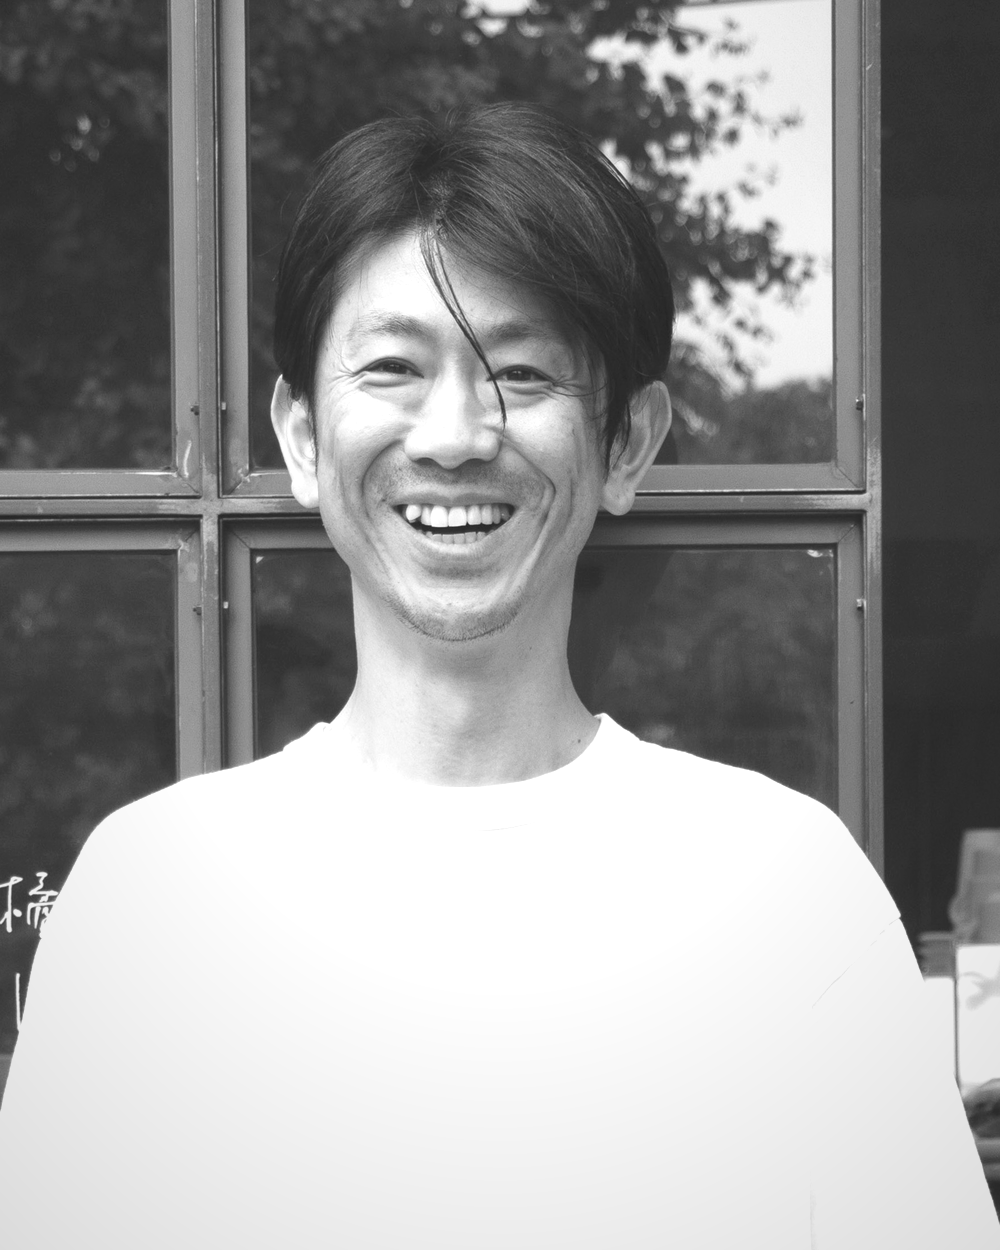
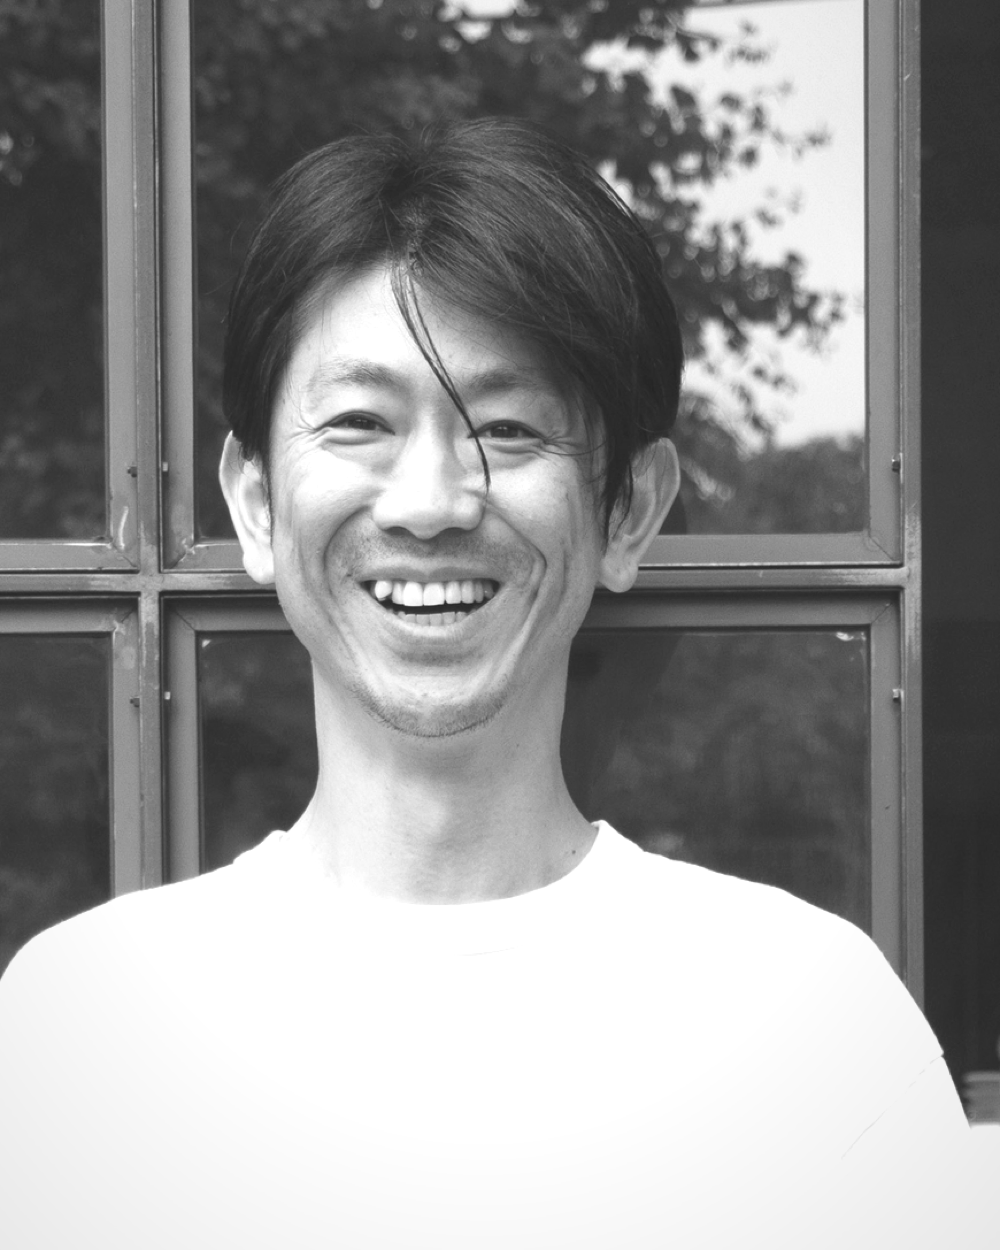
COMPANY/CONTACT 調整：顔サイズ統一・写真4:5・中島文章の収まり・CREATE文言・retro Web・フォーム微調整
- COMPANY：中島の写真を顔中心にズームして渡部と顔サイズを統一／写真は自然な4:5（間延びなし）
- COMPANY：モバイルのみ文章を縮小し中島の文章を写真の枠内に収める（PCは不変）
- COMPANY：retro に retro-duction.com を併記
- CONTACT：2つの窓を細め・同サイズに／CREATE「一緒につくれる人を探しています。」／会社名・電話番号は（任意）表記
- BUSINESS：Tools の「構想」表記を削除

diff --git a/style.css b/style.css
@@ -260,7 +260,7 @@ body::before{
   text-align:left;
   background:transparent;
   border:1px solid rgba(35,49,72,.22);  /* 薄い囲み（地に、ここだけ枠＝種類が変わる合図） */
-  padding:var(--s3) var(--s4);          /* 上下を詰めて出口を締める（左右はそのまま） */
+  padding:1.15rem 1.8rem;               /* 細め（WORK基準のスリムなボックス） */
   font:inherit;
   color:inherit;
   cursor:pointer;
@@ -269,7 +269,7 @@ body::before{
 .window:focus-visible{ outline:2px solid var(--ink-soft); outline-offset:2px; }
 .contact__intro{ font-family:var(--font-en); font-size:var(--fs-lead); letter-spacing:.1em; color:var(--ink); margin:0 0 var(--s4); }   /* 前置き IF THIS RESONATES,：英字・ネイビー・囲みの外/上・bold無し */
 .window__en{ display:block; font-family:var(--font-en); font-size:clamp(1rem, .96rem + .35vw, 1.14rem); letter-spacing:.12em; line-height:1.35; color:var(--ink); margin:0; }   /* CONTACTの英字メイン：出口は静かに＝Values見出し/IF THIS RESONATESより小さく */
-.window__ja{ display:block; font-size:var(--fs-body); color:var(--ink-faint); line-height:1.6; margin:.55em 0 0; }   /* 日本語サブ：薄グレー#9AA0AC・一段小さく（英字の下） */
+.window__ja{ display:block; font-size:clamp(.8rem, .68rem + .55vw, 1.05rem); color:var(--ink-faint); line-height:1.6; margin:.5em 0 0; }   /* 日本語サブ：薄グレー。狭い画面でも1行に収めてボックスを細く（PCは従来サイズ） */
 
 /* --- ⑦ 二つの窓のフォーム（アコーディオン／装飾は最小・角丸/影なし・bold無し） -- */
 .contact-panel{ padding:var(--s2) var(--s4) var(--s3); }     /* 押した窓の直下に開く・窓の内側に揃える */
@@ -320,15 +320,15 @@ body::before{
 /* --- ⑨ 会社情報（二社のプロフィール：見出しなし・写真左/テキスト右・縦積み。並ぶ構図でアライアンスを示す） -- */
 .company{ padding-block:var(--s7); }
 .company__lead{ margin:calc(-1 * var(--s3)) 0 var(--s4); font-size:clamp(.82rem, .79rem + .14vw, .9rem); color:var(--ink-faint); line-height:1.7; }   /* COMPANYラベル直下・関係の一行：薄グレー・小さめ・控えめ */
-.profile{ display:flex; align-items:center; gap:clamp(1.1rem, 4vw, 2.2rem); }
+.profile{ display:flex; align-items:flex-start; gap:clamp(1.1rem, 4vw, 2.2rem); }   /* 写真は自然な4:5（間延びさせない）。上揃えで文章が写真の上端から始まる */
 .profile + .profile{ margin-top:var(--s5); }      /* 二社の間＝主従の唯一の差。各ブロック内の余白よりはっきり広く（線・ラベルは使わない・写真は同サイズ） */
-.profile__photo{ flex:none; width:clamp(7rem, 27vw, 11.5rem); }    /* 二社とも同一幅・一段小さく（写真は静かに添える＝テキスト主）。4:5で高さも揃う */
-.profile__photo img{ display:block; width:100%; height:auto; }       /* 4:5・角丸/枠線/影なし（地に直に乗る） */
+.profile__photo{ flex:none; width:clamp(8.5rem, 36vw, 11.5rem); }    /* 二社とも同一幅。スマホでも写真を大きめにして文章高さと揃える（ロゴが収まる範囲で最大／PC=11.5rem上限は不変） */
+.profile__photo img{ display:block; width:100%; height:auto; }   /* 自然な4:5（伸縮/トリミングなし）。角丸/枠線/影なし */
 .profile__text{ flex:1; min-width:0; }
 .profile__logo{ margin:0 0 .55em; line-height:1; }                /* 社名の頭に小さくロゴ＝視覚リズム（誇示しない）。2社で同サイズ・同位置 */
 .profile__logo img{ display:block; height:1.1rem; width:auto; }  /* mssb＝Mマーク（小さめのアクセント＝ワードマークを主役にしてメリハリ） */
 .profile__logo--lockup{ display:flex; align-items:center; gap:.32em; }   /* mssb＝M＋mssbworks の横組みロックアップ */
-.profile__wm{ font-family:var(--font-jp); font-size:1.55rem; line-height:1; letter-spacing:.01em; color:#243249; }  /* ワードマーク mssbworks＝主役（Mマークより大きく）。游ゴシック・#243249 */
+.profile__wm{ font-family:var(--font-jp); font-size:clamp(1.34rem, 1.05rem + 1.2vw, 1.55rem); line-height:1; letter-spacing:.01em; color:#243249; }  /* ワードマーク mssbworks＝主役。PCは1.55rem／狭い画面は少し縮めて収める（写真拡大で列が狭くなった分の収まり確保） */
 .profile__logo--r{ font-family:var(--font-jp); font-size:1.6rem; color:var(--ink-faint); }  /* retro＝薄グレー仮R（公開前に正式ロゴへ差替） */
 .profile__main{ font-size:clamp(.86rem, .83rem + .15vw, .94rem); color:var(--ink); line-height:1.5; margin:0; }  /* 社名・代表氏名＝ネイビー。ロゴより一段小さく（ロゴ＞文章のメリハリ） */
 .profile__main + .profile__main{ margin-top:.12em; }
@@ -337,5 +337,20 @@ body::before{
 
 /* --- ⑨ 各社の住所＝事実情報（薄グレー小・bold無し）。各社プロフィールの直下に置き、1社で完結 -- */
 .profile__addr{ font-size:clamp(.74rem, .72rem + .1vw, .8rem); color:var(--ink-faint); line-height:1.6; margin:.6em 0 0; }   /* 肩書きより一段小さく・薄グレー。〒の直前を少し空けて住所と分かる */
+.profile__web{ margin:.5em 0 0; font-family:var(--font-en); font-size:clamp(.74rem, .72rem + .1vw, .8rem); letter-spacing:.01em; }   /* retro Webサイト併記 */
+.profile__web a{ color:var(--ink-soft); text-decoration:underline; text-underline-offset:2px; }
+.profile__web a:hover{ color:var(--ink); }
 
 /* 書体は游ゴシックで確定（--font-jp が游ゴシック先頭。レビュー用スイッチャーは公開のため削除済み） */
+
+/* --- スマホのみ：COMPANYの文章を詰めて、写真の高さ内に収める（特にretro/中島の下はみ出し対策） --- */
+@media (max-width: 560px){
+  .profile__logo{ margin-bottom:.4em; }
+  .profile__logo--r{ font-size:1.34rem; }                         /* 仮R＝mssbロックアップと同程度に小さく＝行を詰める */
+  .profile__main{ font-size:.79rem; line-height:1.38; }
+  .profile__main + .profile__main{ margin-top:.06em; }
+  .profile__sub{ font-size:.71rem; line-height:1.38; }
+  .profile__main + .profile__sub{ margin-top:.36em; }
+  .profile__addr{ font-size:.69rem; line-height:1.45; margin-top:.42em; }
+  .profile__web{ font-size:.69rem; margin-top:.34em; }
+}

diff --git a/index.html b/index.html
@@ -121,7 +121,7 @@
           </div>
           <!-- Tools＝寡黙に一行（構想。確定） -->
           <div class="biz__item biz__item--quiet">
-            <p class="biz__head"><span class="biz__en">Tools</span><span class="biz__ja">／ 道具</span><span class="biz__state">構想</span></p>
+            <p class="biz__head"><span class="biz__en">Tools</span><span class="biz__ja">／ 道具</span></p>
             <p class="biz__verb">料理人に依存しない再現性をつくる道具・装置の企画とディレクション</p>
           </div>
         </div>
@@ -194,7 +194,7 @@
           <!-- 窓2：押すと直下にフォームが開く（source=create）。今すぐの募集ではない／ラベル名は出さない -->
           <button type="button" class="window" data-source="create" aria-expanded="false" aria-controls="contact-panel">
             <span class="window__en">CREATE WITH US</span>
-            <span class="window__ja">一緒になにかつくれる人を探しています。</span>
+            <span class="window__ja">一緒につくれる人を探しています。</span>
           </button>
           <!-- 共通フォーム（1つ）。押した窓の直下へJSで移動し source=work/create を識別。送信はNetlify Forms＋AJAXで同ページ完結 -->
           <div class="contact-panel" id="contact-panel" hidden>
@@ -267,6 +267,7 @@
             <p class="profile__sub">retroduction</p>
             <p class="profile__sub">CEO/Project Director<br>Shinpei Nakajima</p>
             <p class="profile__addr">〒151-0051　東京都渋谷区千駄ヶ谷3-8-4 メゾンジャルダン503</p>
+            <p class="profile__web"><a href="https://retro-duction.com" target="_blank" rel="noopener">retro-duction.com</a></p>
           </div>
         </div>
       </div>